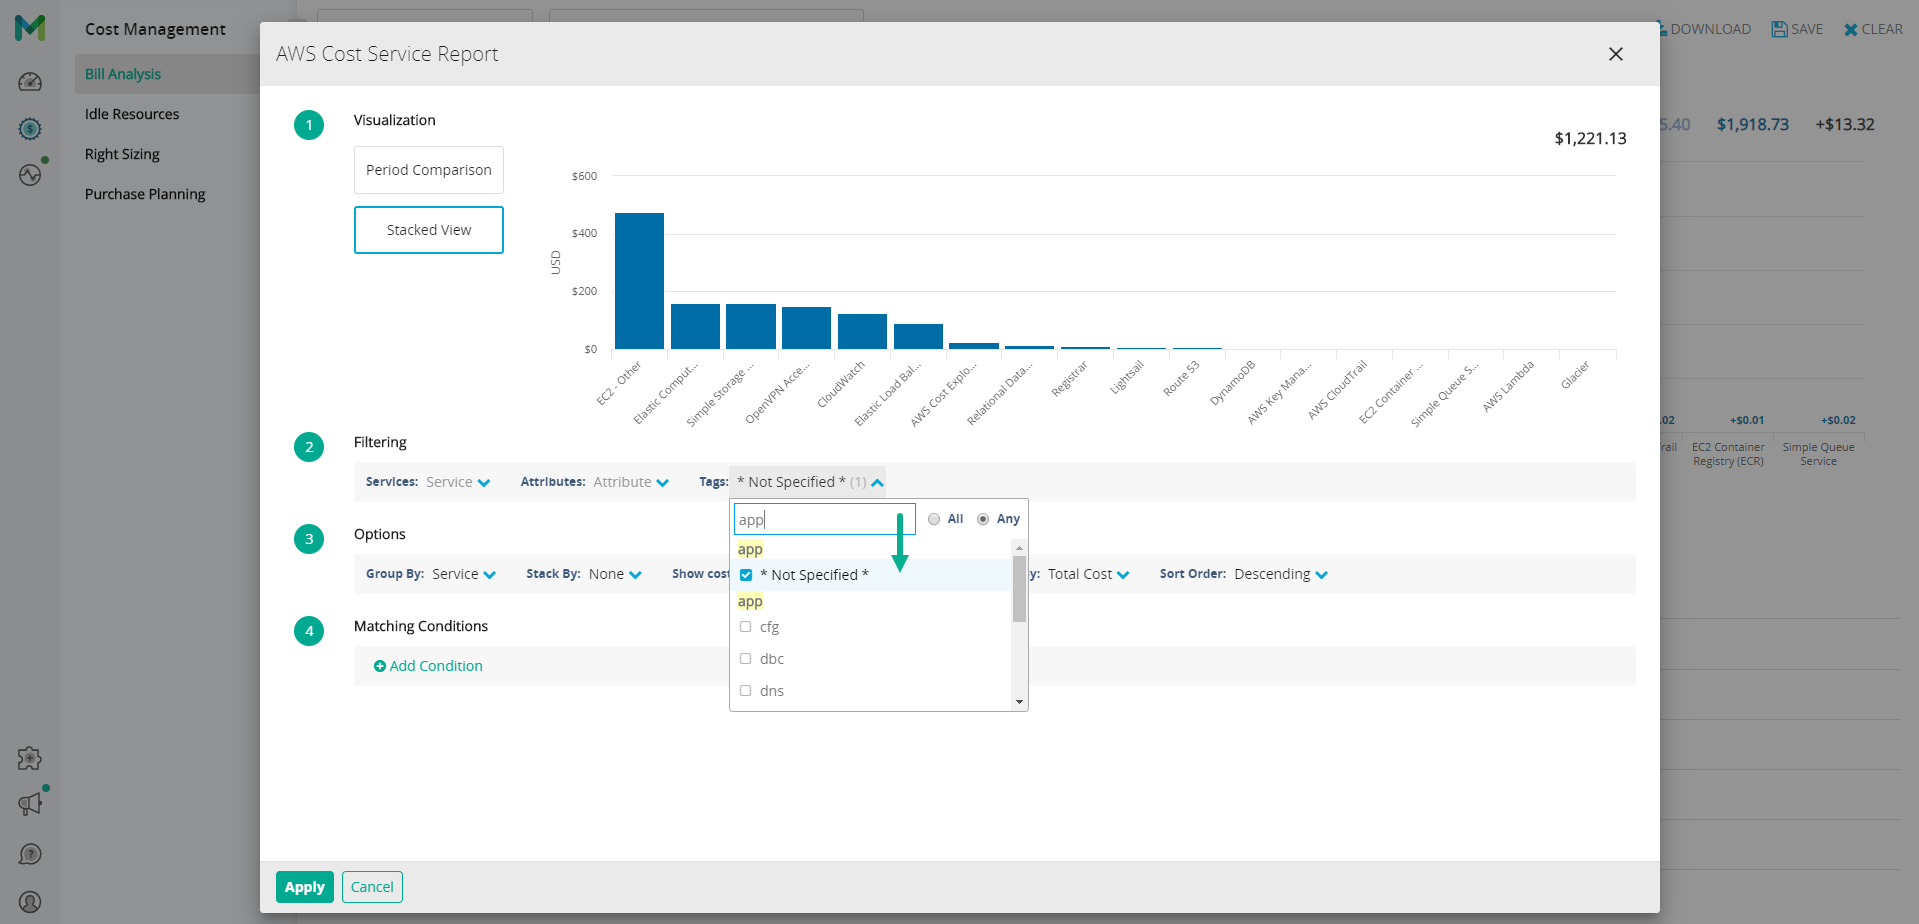
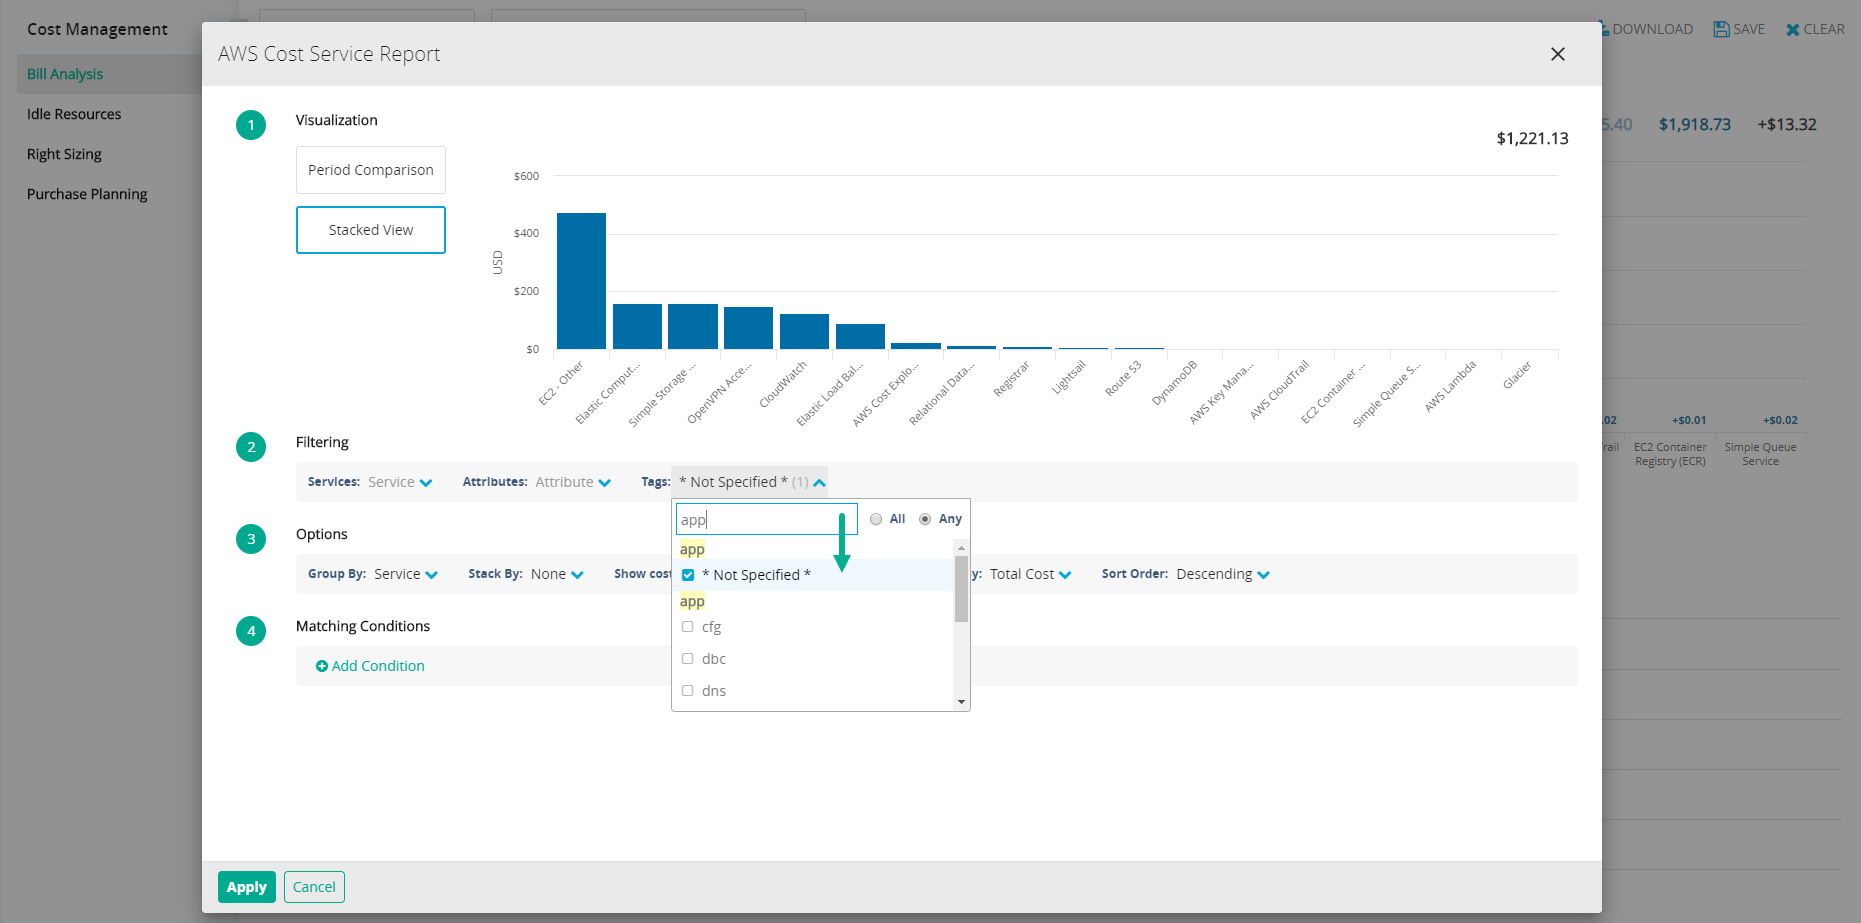
cropped screenshots 3-6

diff --git a/content/billing-analysis/ba-guides/how-to-find-resources-missing-tags.md b/content/billing-analysis/ba-guides/how-to-find-resources-missing-tags.md
@@ -53,9 +53,9 @@ Now you are ready to use Cost Allocation Tags to analyze your bill in CloudWisdo
 4. Choose the **Stacked View** visualization.
 5. Choose a `tag value` from **Options** > **Group By**. In this example, we are grouping by the `app` tag.
 6. Notice the bar missing a label. This bar represents all of your spend missing this tag.
-![spend-without-app-tag](/images/how-to-find-uncategorized-costs/spend-without-app-tag.png)
+![spend-without-app-tag](/images/how-to-find-resources-missing-tags/spend-without-app-tag.png)
 7. Add a **Stacked By** value, such as `service`, to gain more insight into your untagged resource spend.
-![untagged-costs-stacked-by-service](/images/how-to-find-uncategorized-costs/untagged-costs-stacked-by-service.png)
+![untagged-costs-stacked-by-service](/images/how-to-find-resources-missing-tags/untagged-costs-stacked-by-service.png)
 8. Notice now the untagged spend is divided by each service. You can use these insights to further explore your costs.
  - Change the **Stacked By** value to `Region` to get an idea of where your missing resources are located
  - Change the **Stacked By** value to `Usage Type` for a specific, granular list of costs such as EBS volume usage.
